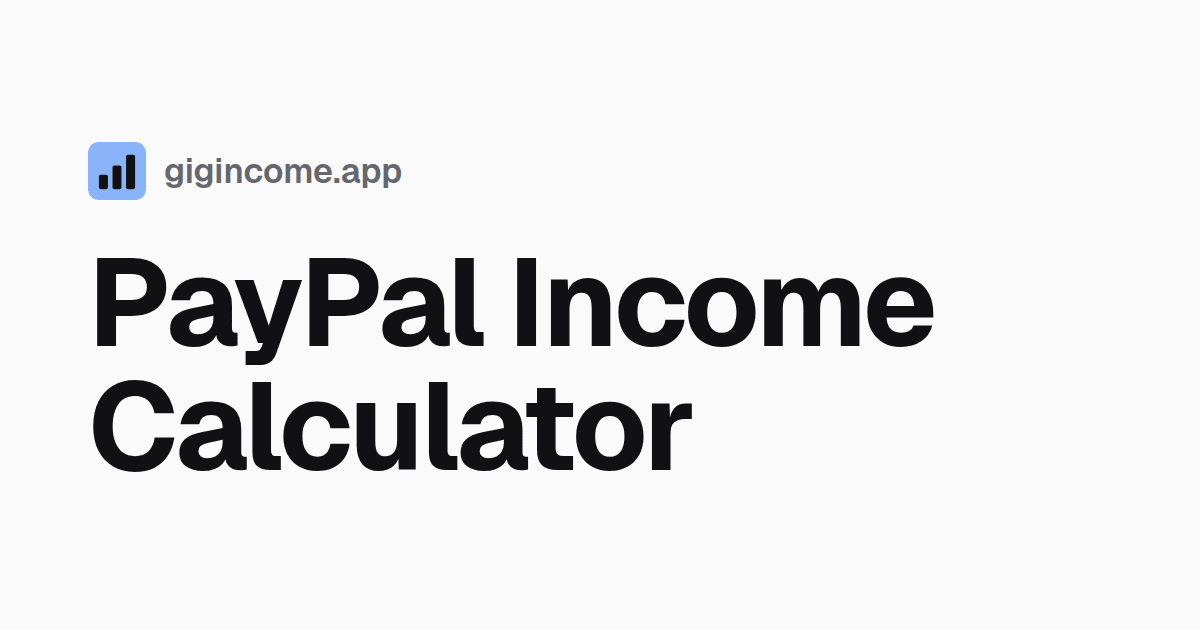
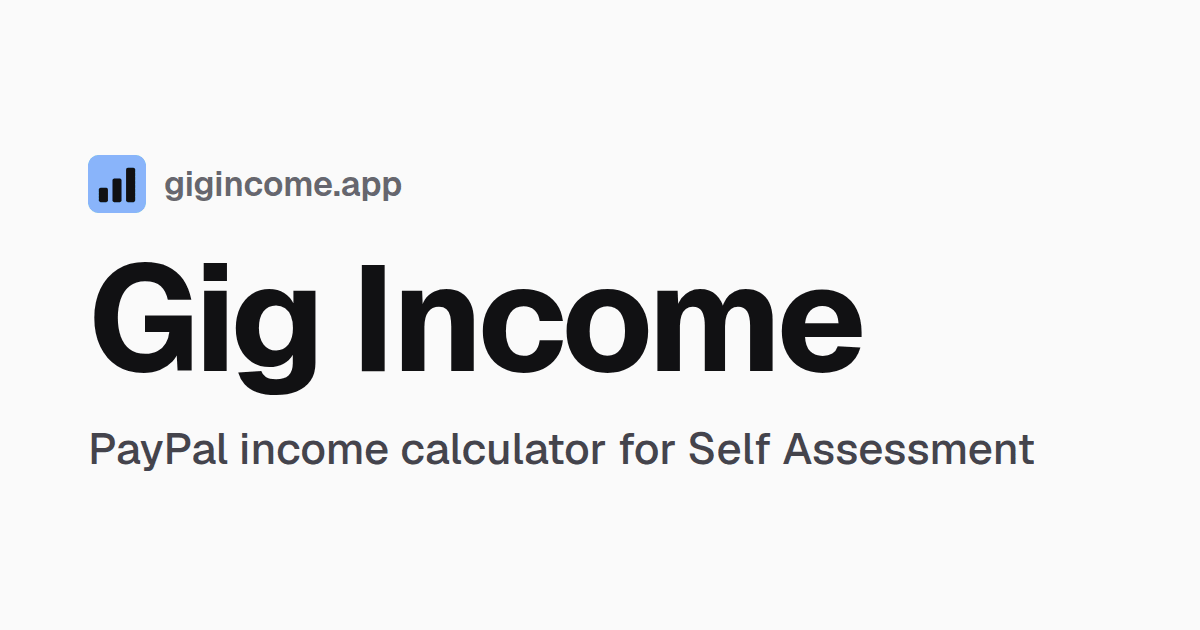
Rename to Gig Income and add ways to send feedback
The name is now Gig Income, with "PayPal income calculator for Self
Assessment" as the description: in the page title, the welcome heading
(with the logo beside it) and the link preview card.

Feedback can go by email to hello@gigincome.app or as a GitHub issue,
offered under file errors, in the "Did this help?" card, and as an
envelope icon next to the GitHub icon. Each reminds people not to attach
their PayPal file. The GitHub logo no longer gets trimmed at its edge.

Changed region(s): [[0.0617, 0.3921, 0.8633, 0.754], [0.0617, 0.2111, 0.3392, 0.3619]]

diff --git a/src/ui/app.ts b/src/ui/app.ts
@@ -15,7 +15,7 @@ import { QUESTION_GROUP, QUESTIONS, QUESTIONS_TITLE, WELCOME, type Inline } from
 
 /** The pages of the wizard, in order. The welcome page is not a numbered step. */
 const STEPS = [
-  { id: 'welcome', title: 'PayPal Income Calculator' },
+  { id: 'welcome', title: 'Gig Income' },
   { id: 'guide', title: 'Get your files from PayPal' },
   { id: 'files', title: 'Add your PayPal files' },
   { id: 'payers', title: 'Tick who paid you for work' },
@@ -130,7 +130,26 @@ const SUPPORT_LINKS = [
   { label: 'GitHub Sponsors', href: 'https://github.com/sponsors/PSYEONE' },
   { label: 'Crypto', href: 'https://nowpayments.io/donation/psyeone' },
 ];
-const FEEDBACK_URL = 'https://github.com/PSYEONE/paypal-income-calculator/issues/new';
+// Two ways to get in touch, because most people do not have a GitHub account.
+const FEEDBACK_EMAIL = 'hello@gigincome.app';
+const FEEDBACK_ISSUES = 'https://github.com/PSYEONE/paypal-income-calculator/issues/new';
+
+/**
+ * "Email hello@gigincome.app or open an issue on GitHub", plus a reminder not
+ * to send the PayPal file itself, which is full of private financial details.
+ */
+function feedbackLine(lead: string, subject: string, instead: string): HTMLElement {
+  const mail = `mailto:${FEEDBACK_EMAIL}?subject=${encodeURIComponent(subject)}`;
+  return h(
+    'p',
+    { class: 'small feedback' },
+    `${lead} Email `,
+    h('a', { href: mail }, FEEDBACK_EMAIL),
+    ' or ',
+    h('a', { href: FEEDBACK_ISSUES, target: '_blank', rel: 'noopener noreferrer' }, 'open an issue on GitHub'),
+    `. Please don't attach your PayPal file. ${instead}`,
+  );
+}
 
 /** A small heart, drawn inline so the page needs nothing from outside. */
 function heart(): SVGSVGElement {
@@ -163,7 +182,7 @@ function supportCard(): HTMLElement {
       h('strong', null, 'Did this help?'),
       h('p', null, "This tool is free. If it saved you time, a donation would be greatly appreciated <3"),
       h('div', { class: 'support-links' }, SUPPORT_LINKS.map((l) => link(l.label, l.href, true))),
-      h('p', { class: 'small' }, 'Something wrong or missing? ', h('a', { href: FEEDBACK_URL, target: '_blank', rel: 'noopener noreferrer' }, 'Tell me on GitHub'), '.'),
+      feedbackLine('Something wrong or missing?', 'Gig Income feedback', 'Just describe what happened.'),
     ),
   );
 }
@@ -360,7 +379,9 @@ export function createApp(root: HTMLElement, today: string = todayIso()) {
         h(
           'div',
           { class: 'hero' },
-          h('h1', null, WELCOME.title),
+          // The site's icon beside the name. Empty alt text: it is decoration, the name says it all.
+          h('h1', null, h('img', { class: 'logo', src: '/favicon.svg', alt: '', width: '40', height: '40' }), WELCOME.title),
+          h('p', { class: 'tagline' }, WELCOME.tagline),
           h('p', null, WELCOME.intro),
           h('p', null, 'You get:'),
           h('ul', null, WELCOME.youGet.map((li) => h('li', null, inline(li)))),
@@ -578,7 +599,13 @@ export function createApp(root: HTMLElement, today: string = todayIso()) {
 
     const items = [
       ...state.failures.map((f) =>
-        h('li', { class: 'file bad' }, h('div', { class: 'file-row' }, h('div', { class: 'file-info' }, fileName(f.fileName)), removeButton(f.fileName)), h('p', { class: 'error' }, f.error)),
+        h(
+          'li',
+          { class: 'file bad' },
+          h('div', { class: 'file-row' }, h('div', { class: 'file-info' }, fileName(f.fileName)), removeButton(f.fileName)),
+          h('p', { class: 'error' }, f.error),
+          feedbackLine('Think this file should work?', 'A PayPal file would not load', 'Describe the problem or copy the message above instead.'),
+        ),
       ),
       ...state.files.map((f) => {
         const range = ranges.get(f.fileName);

diff --git a/index.html b/index.html
@@ -4,7 +4,7 @@
     <meta charset="UTF-8" />
     <meta name="viewport" content="width=device-width, initial-scale=1.0" />
     <meta name="description" content="Add up your PayPal income for your Self Assessment tax return. Earnings per UK tax year, converted to pounds at PayPal's and HMRC's rates. Free, and your files never leave your device." />
-    <title>PayPal Income Calculator</title>
+    <title>Gig Income: PayPal income calculator for Self Assessment</title>
     <link rel="canonical" href="https://gigincome.app/" />
     <link rel="icon" href="/favicon.ico" sizes="32x32" />
     <link rel="icon" href="/favicon.svg" type="image/svg+xml" />
@@ -14,12 +14,12 @@
     <meta property="og:type" content="website" />
     <meta property="og:site_name" content="Gig Income" />
     <meta property="og:url" content="https://gigincome.app/" />
-    <meta property="og:title" content="PayPal Income Calculator" />
+    <meta property="og:title" content="Gig Income: PayPal income calculator for Self Assessment" />
     <meta property="og:description" content="Add up what you were paid through PayPal, per tax year or any dates you choose. Free, and your files never leave your device." />
     <meta property="og:image" content="https://gigincome.app/og-image.png" />
     <meta property="og:image:width" content="1200" />
     <meta property="og:image:height" content="630" />
-    <meta property="og:image:alt" content="PayPal Income Calculator at gigincome.app" />
+    <meta property="og:image:alt" content="Gig Income, a PayPal income calculator for Self Assessment, at gigincome.app" />
     <meta name="twitter:card" content="summary_large_image" />
   </head>
   <body>
@@ -30,11 +30,19 @@
       </main>
       <footer>A calculator, not tax advice. Your files never leave this device. Not connected to PayPal or HMRC.</footer>
     </div>
-    <a class="source-link" href="https://github.com/PSYEONE/paypal-income-calculator" target="_blank" rel="noopener noreferrer" title="Source code on GitHub" aria-label="Source code on GitHub">
-      <svg viewBox="0 0 16 16" width="24" height="24" aria-hidden="true" focusable="false">
+    <div class="corner-links">
+    <a class="corner-link" href="mailto:hello@gigincome.app?subject=Gig%20Income%20feedback" title="Email hello@gigincome.app" aria-label="Email hello@gigincome.app">
+      <svg viewBox="0 0 24 24" width="24" height="24" aria-hidden="true" focusable="false" fill="none" stroke="currentColor" stroke-width="2" stroke-linejoin="round">
+        <rect x="2.5" y="4.5" width="19" height="15" rx="2" />
+        <path d="M3 6.5l9 6.5 9-6.5" />
+      </svg>
+    </a>
+    <a class="corner-link" href="https://github.com/PSYEONE/paypal-income-calculator" target="_blank" rel="noopener noreferrer" title="Source code on GitHub" aria-label="Source code on GitHub">
+      <svg viewBox="-0.75 -0.75 17.5 17.5" width="24" height="24" aria-hidden="true" focusable="false">
         <path fill="currentColor" d="M8 0C3.58 0 0 3.58 0 8c0 3.54 2.29 6.53 5.47 7.59.4.07.55-.17.55-.38 0-.19-.01-.82-.01-1.49-2.01.37-2.53-.49-2.69-.94-.09-.23-.48-.94-.82-1.13-.28-.15-.68-.52-.01-.53.63-.01 1.08.58 1.23.82.72 1.21 1.87.87 2.33.66.07-.52.28-.87.51-1.07-1.78-.2-3.64-.89-3.64-3.95 0-.87.31-1.59.82-2.15-.08-.2-.36-1.02.08-2.12 0 0 .67-.21 2.2.82.64-.18 1.32-.27 2-.27.68 0 1.36.09 2 .27 1.53-1.04 2.2-.82 2.2-.82.44 1.1.16 1.92.08 2.12.51.56.82 1.27.82 2.15 0 3.07-1.87 3.75-3.65 3.95.29.25.54.73.54 1.48 0 1.07-.01 1.93-.01 2.2 0 .21.15.46.55.38A8.013 8.013 0 0016 8c0-4.42-3.58-8-8-8z"/>
       </svg>
     </a>
+    </div>
     <script type="module" src="/src/main.ts"></script>
   </body>
 </html>

diff --git a/src/ui/style.css b/src/ui/style.css
@@ -159,44 +159,52 @@ footer {
   font-size: 0.8125rem;
 }
 
-/* The GitHub link: in the page's bottom-right corner, outside the window.
-   On smaller screens the window fills the page, so it sits at the right end
-   of the footer line instead, where it covers nothing. */
-.source-link {
+/* Email and GitHub links: in the page's bottom-right corner, outside the window.
+   On smaller screens the window fills the page, so they sit at the right end
+   of the footer line instead, where they cover nothing. */
+.corner-links {
   position: fixed;
   right: 2rem;
   bottom: 0.25rem;
   z-index: 1;
   display: flex;
+  gap: 0.25rem;
+}
+
+.corner-link {
+  display: flex;
   padding: 0.25rem;
   color: var(--dim);
 }
 
-.source-link svg {
+.corner-link svg {
   width: 1.125rem;
   height: 1.125rem;
+  /* Never trim the edge of an icon when its size lands between two pixels. */
+  overflow: visible;
 }
 
-.source-link:hover {
+.corner-link:hover {
   color: var(--fg);
 }
 
-.source-link:focus-visible {
+.corner-link:focus-visible {
   outline: 2px solid var(--accent);
   outline-offset: 1px;
 }
 
 footer {
-  padding-right: 4rem;
+  padding-right: 5.5rem;
 }
 
 @media (min-width: 68rem) {
-  .source-link {
+  .corner-links {
     right: 1.25rem;
     bottom: 1.25rem;
+    gap: 0.5rem;
   }
 
-  .source-link svg {
+  .corner-link svg {
     width: 1.5rem;
     height: 1.5rem;
   }
@@ -214,12 +222,34 @@ footer {
 }
 
 .hero h1 {
-  margin: 0 0 2rem;
+  display: flex;
+  align-items: center;
+  justify-content: center;
+  gap: 0.4em;
+  margin: 0 0 0.5rem;
   font-size: 2.5rem;
   font-weight: 600;
   line-height: 1.1;
   letter-spacing: -0.03em;
   text-align: center;
+}
+
+/* The bar-chart icon, the height of the capital letters' line. */
+.hero h1 .logo {
+  flex: none;
+  width: 0.95em;
+  height: 0.95em;
+}
+
+/* "PayPal income calculator for Self Assessment" under the name. */
+.hero .tagline {
+  margin: 0 0 2rem;
+  color: var(--fg);
+  font-size: 1.25rem;
+  font-weight: 500;
+  text-align: center;
+  /* On a narrow screen, split it into two even lines, not one long and one short. */
+  text-wrap: balance;
 }
 
 .hero p,
@@ -399,7 +429,7 @@ h3 {
 }
 
 .guide a,
-.support p a {
+.feedback a {
   color: var(--accent);
   font-weight: 500;
 }
@@ -1015,10 +1045,10 @@ input[type='checkbox']:focus-visible {
   }
 
   footer {
-    padding-inline: 1rem 3rem;
+    padding-inline: 1rem 4.5rem;
   }
 
-  .source-link {
+  .corner-links {
     right: 0.75rem;
   }
 

diff --git a/tests/app.test.ts b/tests/app.test.ts
@@ -32,7 +32,8 @@ describe('the wizard', () => {
   });
 
   it('starts on the welcome page with one way forward', () => {
-    expect(text()).toContain('PayPal Income Calculator');
+    expect(text()).toContain('Gig Income');
+    expect(text()).toContain('PayPal income calculator for Self Assessment');
     expect(document.querySelectorAll('button')).toHaveLength(1);
     expect(document.querySelector('input')).toBeNull();
   });
@@ -162,15 +163,20 @@ describe('the wizard', () => {
     expect(links.map((a) => a.getAttribute('href'))).toEqual([
       'https://github.com/sponsors/PSYEONE',
       'https://nowpayments.io/donation/psyeone',
+      'mailto:hello@gigincome.app?subject=Gig%20Income%20feedback',
       'https://github.com/PSYEONE/paypal-income-calculator/issues/new',
     ]);
-    expect(links.every((a) => a.target === '_blank' && a.rel.includes('noopener'))).toBe(true);
+    expect(links.filter((a) => a.href.startsWith('https:')).every((a) => a.target === '_blank' && a.rel.includes('noopener'))).toBe(true);
   });
 
   it('shows a clear error for an unknown layout and will not move on with it', () => {
     app.goTo('files');
     app.addTexts([{ name: 'other.csv', text: fixtureText('other-layout.csv') }]);
     expect(text()).toContain('not in a PayPal layout this tool can read');
+    // The people whose file fails are the ones who most need a way to ask for help, without a GitHub account.
+    const help = document.querySelector('.file.bad .feedback')!;
+    expect(help.querySelector('a[href^="mailto:hello@gigincome.app"]')).not.toBeNull();
+    expect(help.textContent).toContain("Please don't attach your PayPal file");
     expect(findButton('Next').disabled).toBe(true);
   });
 

diff --git a/src/ui/welcome.ts b/src/ui/welcome.ts
@@ -18,7 +18,9 @@ export interface Question {
 const authority = settings.officialRates.name;
 
 export const WELCOME = {
-  title: 'PayPal Income Calculator',
+  title: 'Gig Income',
+  /** What it is, in the words people search for. Shown under the name. */
+  tagline: 'PayPal income calculator for Self Assessment',
   intro:
     'Add up what you were paid through PayPal, for each tax year or for any dates you choose. ' +
     'Useful for freelancers and side income, and for checking figures before your Self Assessment.',
@@ -148,7 +150,7 @@ export function welcomeHtml(): string {
   const questions = QUESTIONS.map((x) => `<details name="${QUESTION_GROUP}"><summary>${escape(x.q)}</summary><p>${inlineHtml(x.a)}</p></details>`).join('');
   return (
     `<div class="wiz-body">` +
-    `<div class="hero"><h1>${escape(WELCOME.title)}</h1><p>${escape(WELCOME.intro)}</p><p>You get:</p><ul>${items}</ul><p>${escape(WELCOME.privacy)}</p></div>` +
+    `<div class="hero"><h1><img class="logo" src="/favicon.svg" alt="" width="40" height="40">${escape(WELCOME.title)}</h1><p class="tagline">${escape(WELCOME.tagline)}</p><p>${escape(WELCOME.intro)}</p><p>You get:</p><ul>${items}</ul><p>${escape(WELCOME.privacy)}</p></div>` +
     `<section class="faq"><h2>${escape(QUESTIONS_TITLE)}</h2>${questions}</section>` +
     `</div>`
   );
